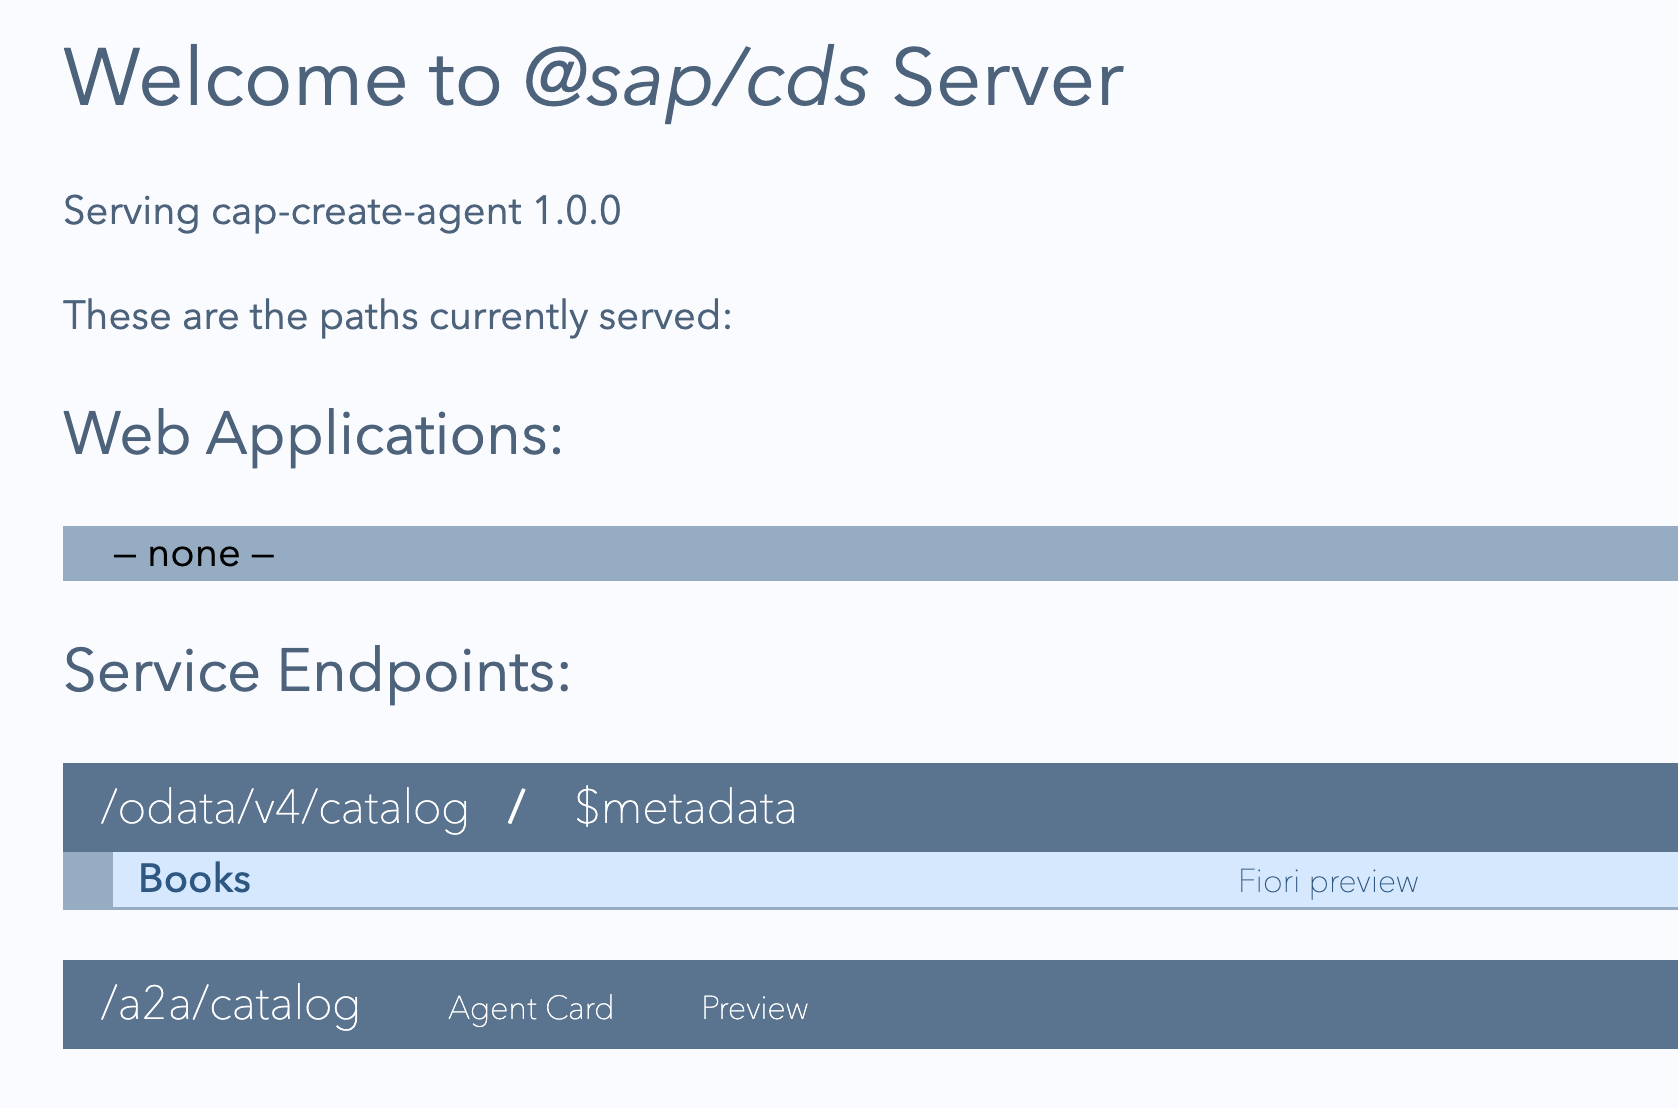
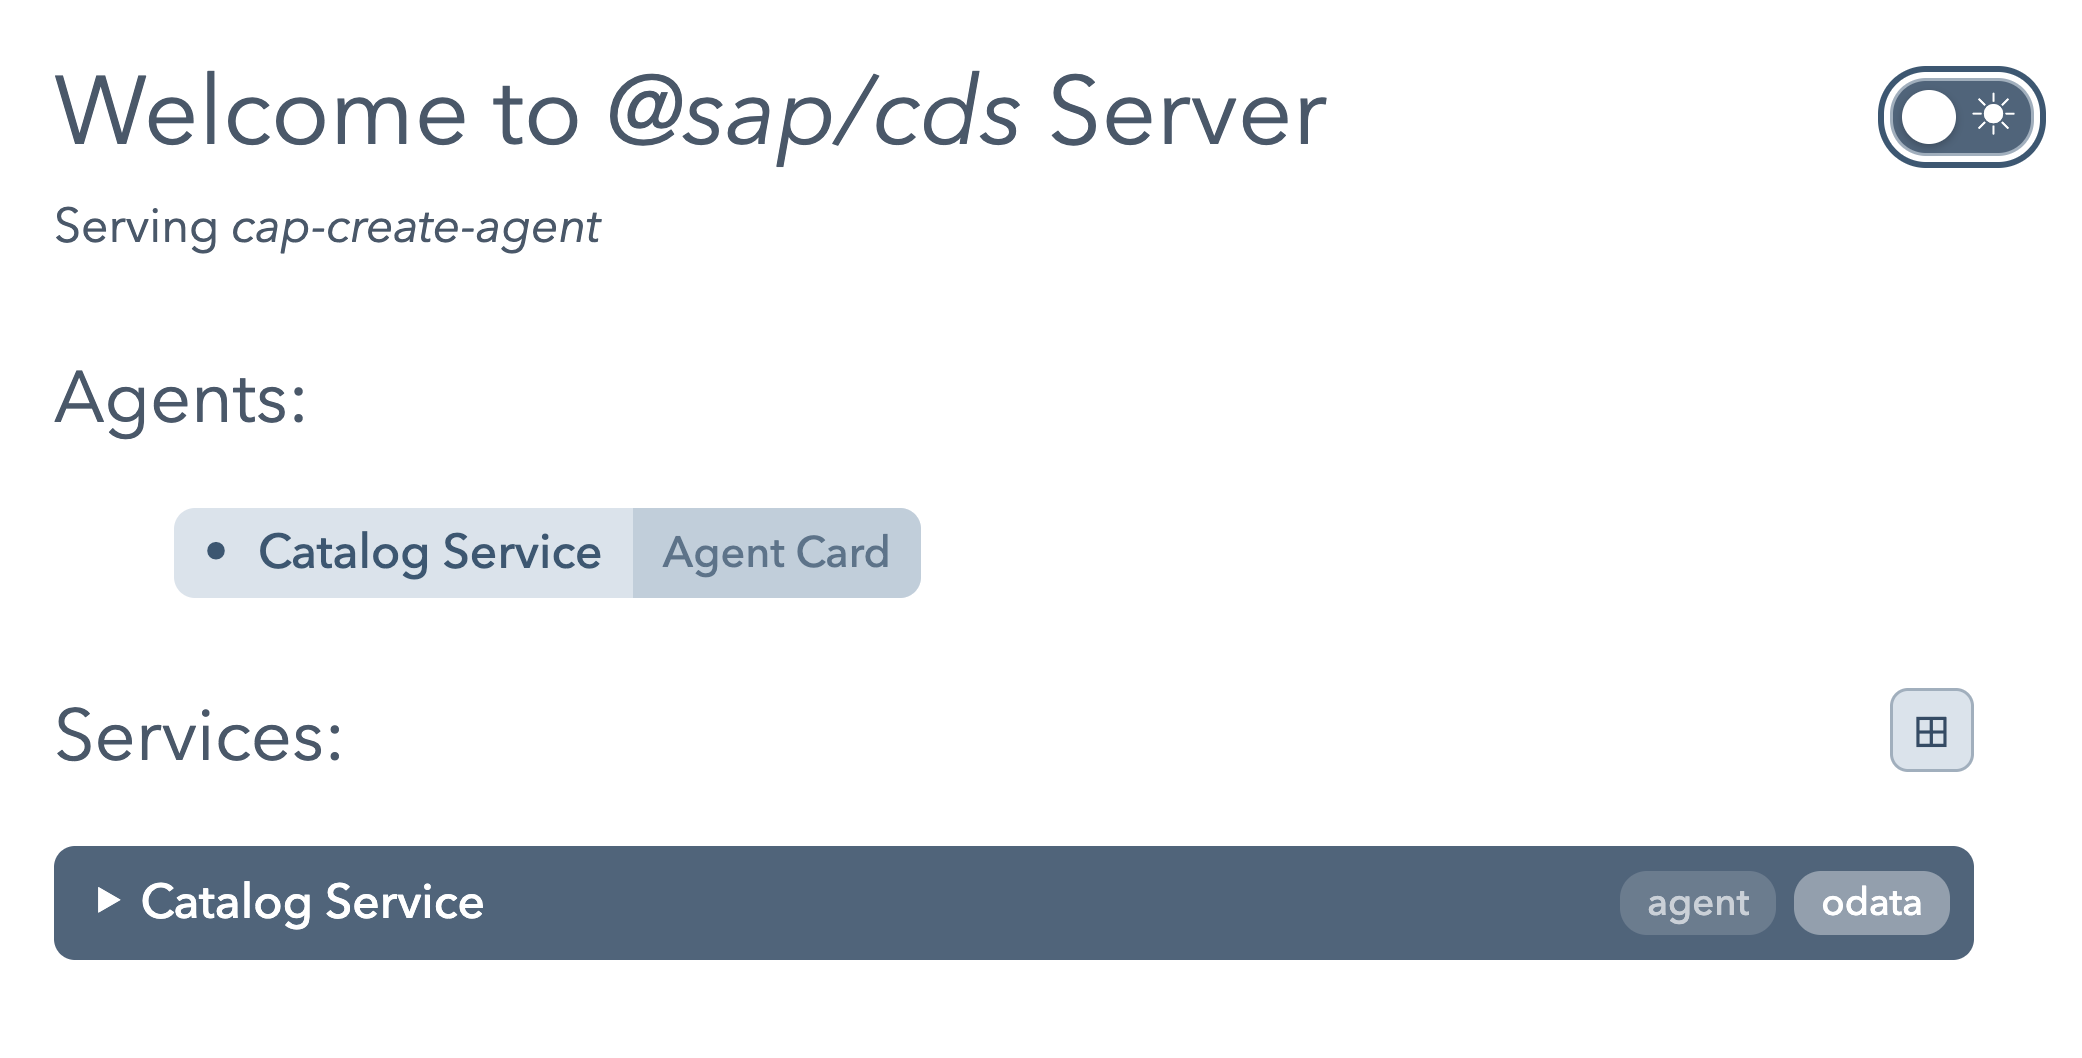
make adjustments for new welcome page

diff --git a/tutorials/cap-create-agent/cap-create-agent.md b/tutorials/cap-create-agent/cap-create-agent.md
@@ -228,70 +228,51 @@ Additionally:
 ### Check the CAP server welcome page
 
 👉 Head over to the CAP server welcome page at `http://localhost:4004` via the
-URL in the log output, where there should be two service endpoints for the
-catalog service - one where it's served via the OData protocol, and one where
-it's served via the A2A protocol.
+URL in the log output, where there should an agent listed for the `CatalogService`!
 
-An agent!
+![the CAP server welcome page](welcome-page-service-endpoints.png)
 
-![the CAP server welcome page showing the two service
-endpoints](welcome-page-service-endpoints.png)
+There are two resources shown as available for the agent:
 
-### Explore the two standard A2A endpoints
+- `CatalogService`: a "Preview" chat facility
+- `Agent Card`: a set of standard info about the agent
 
-👉 Explore the first two resources listed for the agent service endpoint:
+### Explore the agent card
 
-- `/a2a/catalog` is the root resource for the A2A endpoint for this agent. A2A
-  uses JSON-RPC which, while readable (the representations are JSON), is
-  somewhat unfriendly to humans as the protocol uses HTTP `POST` predominantly.
-  This is why an error is returned when you `GET` the resource by visiting it
-  in the browser:
+The `Agent Card` is a "well-known" resource in the A2A protocol and [describes
+an agent's capabilities](https://agent2agent.info/docs/concepts/agentcard/).
+Notably, this includes a `skills` property which looks like this, for the
+`CatalogService`:
 
-    ```json
+```json
+{
+  "name": "CatalogService",
+  "description": "Agent for CatalogService",
+  "url": "http://localhost:4004/a2a/catalog",
+  "...": "...",
+  "skills": [
     {
-      "jsonrpc": "2.0",
-      "error": {
-        "code": -32000,
-        "message": "Method not allowed."
-      },
-      "id": null
-    }
-    ```
-
-- `Agent Card` is a "well-known" resource in the A2A protocol and [describes an
-  agent's capabilities](https://agent2agent.info/docs/concepts/agentcard/).
-  Notably, this includes a `skills` property which looks like this, for the
-  `CatalogService`:
-
-    ```json
-    {
-      "name": "CatalogService",
-      "description": "Agent for CatalogService",
-      "url": "http://localhost:4004/a2a/catalog",
-      "...": "...",
-      "skills": [
-        {
-          "id": "query",
-          "name": "Data Query",
-          "description": "Query data from the service. Available entities: \n Books",
-          "examples": [
-            "Show me all Books"
-          ],
-          "tags": [
-            "query",
-            "data",
-            "read",
-            "books"
-          ]
-        }
+      "id": "query",
+      "name": "Data Query",
+      "description": "Query data from the service. Available entities: \n Books",
+      "examples": [
+        "Show me all Books"
+      ],
+      "tags": [
+        "query",
+        "data",
+        "read",
+        "books"
       ]
     }
-    ```
+  ]
+}
+```
 
 ### Explore the Preview facility in mock LLM mode
 
 To finish off our first foray into the agentic world with CAP-level agents, 
-we'll explore the third resource listed for the agent service endpoint, namely
+we'll explore the other resource available for the agent service, namely
 the "Preview", a [simple and experimental chat preview for local development
 use](https://cap.cloud.sap/docs/guides/ai/cap-agents#using-chat-preview).
 
@@ -324,7 +305,10 @@ Amidst the normal CAP server log output, we should see something like this:
 }
 ```
 
-The Preview facility is now ready for us with a mocked LLM, which responds the
+👉 From the welcome page, select the agent's Preview facility (the
+`CatalogService` link).
+
+The Preview facility is ready for us with a mocked LLM, which responds the
 same way each time, to whatever we send in chat. Here's an example:
 
 ![mock LLM response](mock-llm-response.png)
